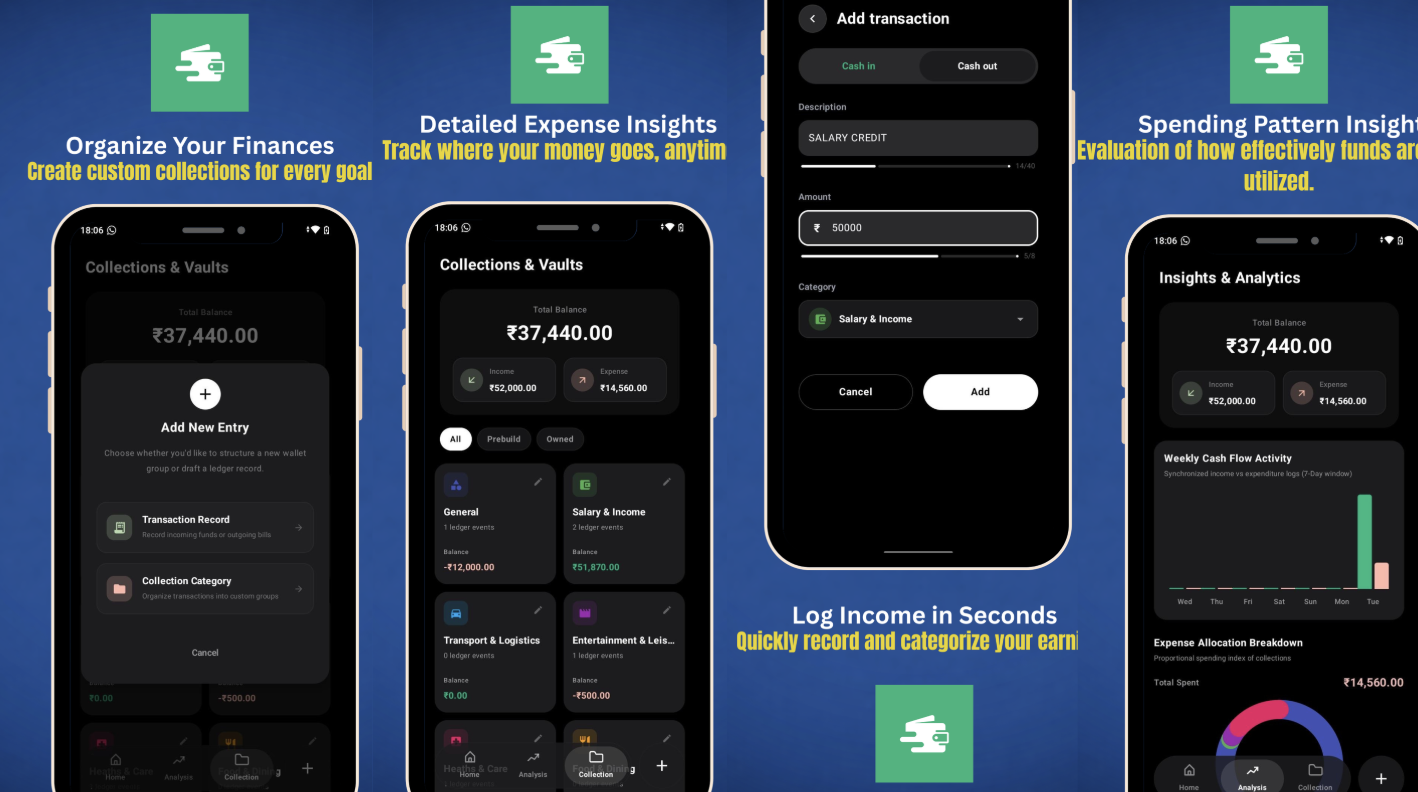
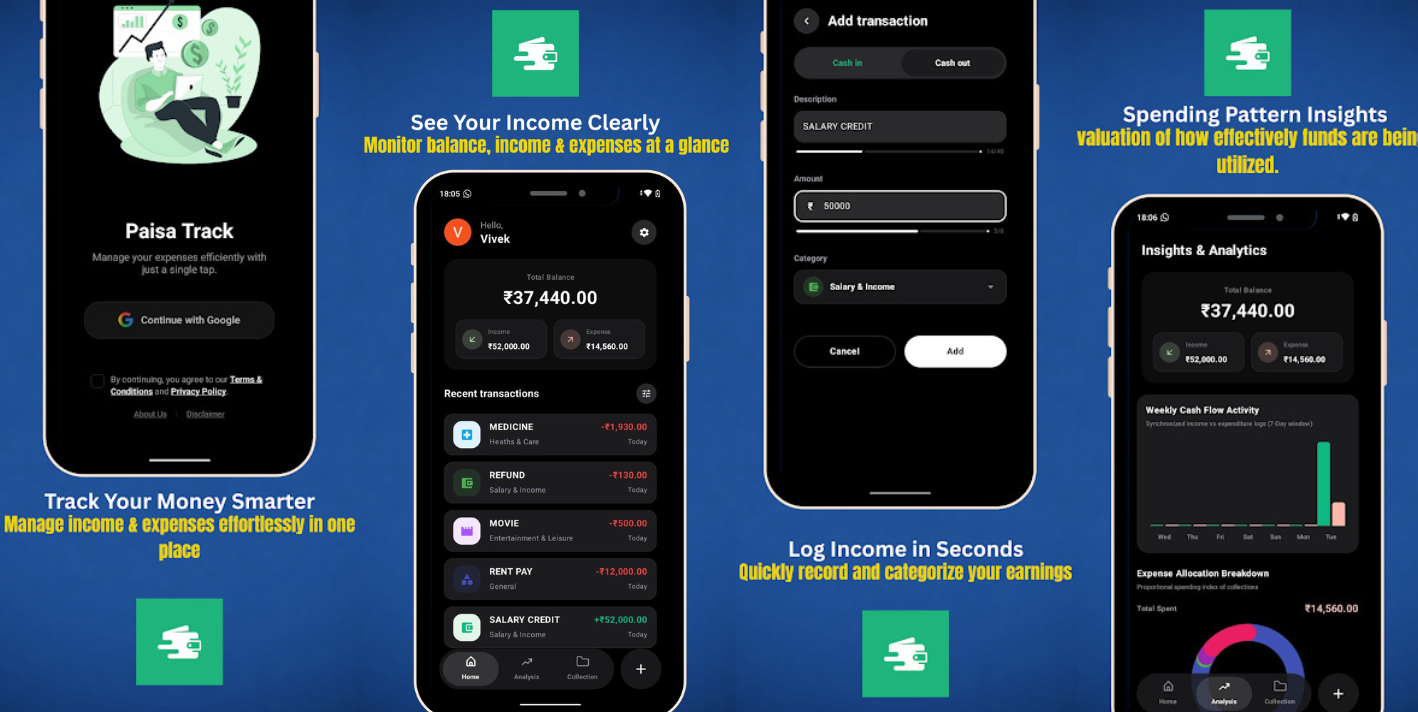
Assets Added

diff --git a/src/components/Teams.jsx b/src/components/Teams.jsx
@@ -1,13 +1,29 @@
 import React from "react";
 import Title from "./Title";
 import { motion } from "framer-motion";
+import vivekImg from "../../public/icons/vivek.jpg";
+import abhikImg from "../../public/icons/abhik.jpg";
+import ankanImg from "../../public/icons/ankan.jpg";
 
 const Teams = () => {
   // Hardcoded team data based on your request
+
   const teamData = [
-    { name: "Vivek", title: "Founder & Fullstack Dev", image: "https://www.sandbyte.site/assets/karan.svg" },
-    { name: "Abhik", title: "Head of Development", image: "https://www.sandbyte.site/assets/vipul.svg" },
-    { name: "Ankan", title: "Marketing & Lead Expert", image: "https://www.sandbyte.site/assets/vishesh.svg" },
+    {
+      name: "Vivek",
+      title: "Founder & Fullstack Dev",
+      image: vivekImg,
+    },
+    {
+      name: "Abhik",
+      title: "Head of Development",
+      image: abhikImg,
+    },
+    {
+      name: "Ankan",
+      title: "Marketing & Lead Expert",
+      image: ankanImg,
+    },
   ];
 
   return (
@@ -33,14 +49,18 @@ const Teams = () => {
             key={index}
             className="flex flex-col sm:flex-row items-center text-center sm:text-left gap-3 sm:gap-4 p-4 rounded-xl border border-gray-100 dark:border-gray-800 bg-white dark:bg-gray-900 shadow-md shadow-gray-100/50 dark:shadow-none hover:scale-105 transition-all duration-300"
           >
-            <img 
-              src={team.image} 
-              className="w-14 h-14 sm:w-12 sm:h-12 rounded-full object-cover ring-2 ring-gray-100 dark:ring-gray-800" 
-              alt={team.name} 
+            <img
+              src={team.image}
+              className="w-14 h-14 sm:w-12 sm:h-12 rounded-full object-cover ring-2 ring-gray-100 dark:ring-gray-800"
+              alt={team.name}
             />
             <div className="flex-1 min-w-0">
-              <h3 className="font-bold text-sm sm:text-base truncate">{team.name}</h3>
-              <p className="text-xs text-gray-500 dark:text-gray-400 mt-0.5 line-clamp-2">{team.title}</p>
+              <h3 className="font-bold text-sm sm:text-base truncate">
+                {team.name}
+              </h3>
+              <p className="text-xs text-gray-500 dark:text-gray-400 mt-0.5 line-clamp-2">
+                {team.title}
+              </p>
             </div>
           </motion.div>
         ))}
@@ -57,8 +77,12 @@ const Teams = () => {
             +
           </div>
           <div>
-            <h3 className="font-semibold text-sm text-gray-500 dark:text-gray-400">Expanding Soon</h3>
-            <p className="text-xs text-gray-400 dark:text-gray-500 hidden sm:block">We are growing!</p>
+            <h3 className="font-semibold text-sm text-gray-500 dark:text-gray-400">
+              Expanding Soon
+            </h3>
+            <p className="text-xs text-gray-400 dark:text-gray-500 hidden sm:block">
+              We are growing!
+            </p>
           </div>
         </motion.div>
       </div>